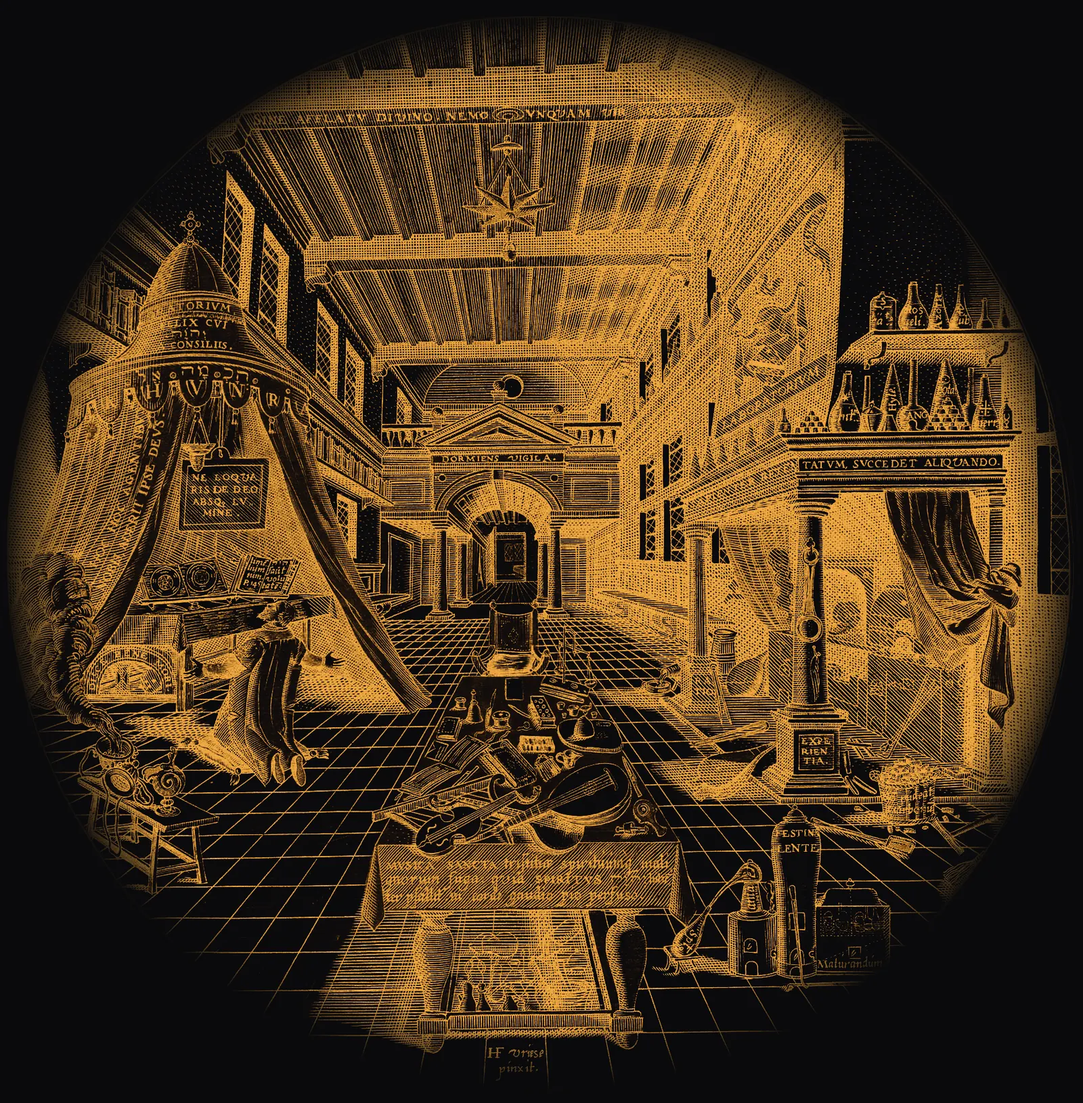
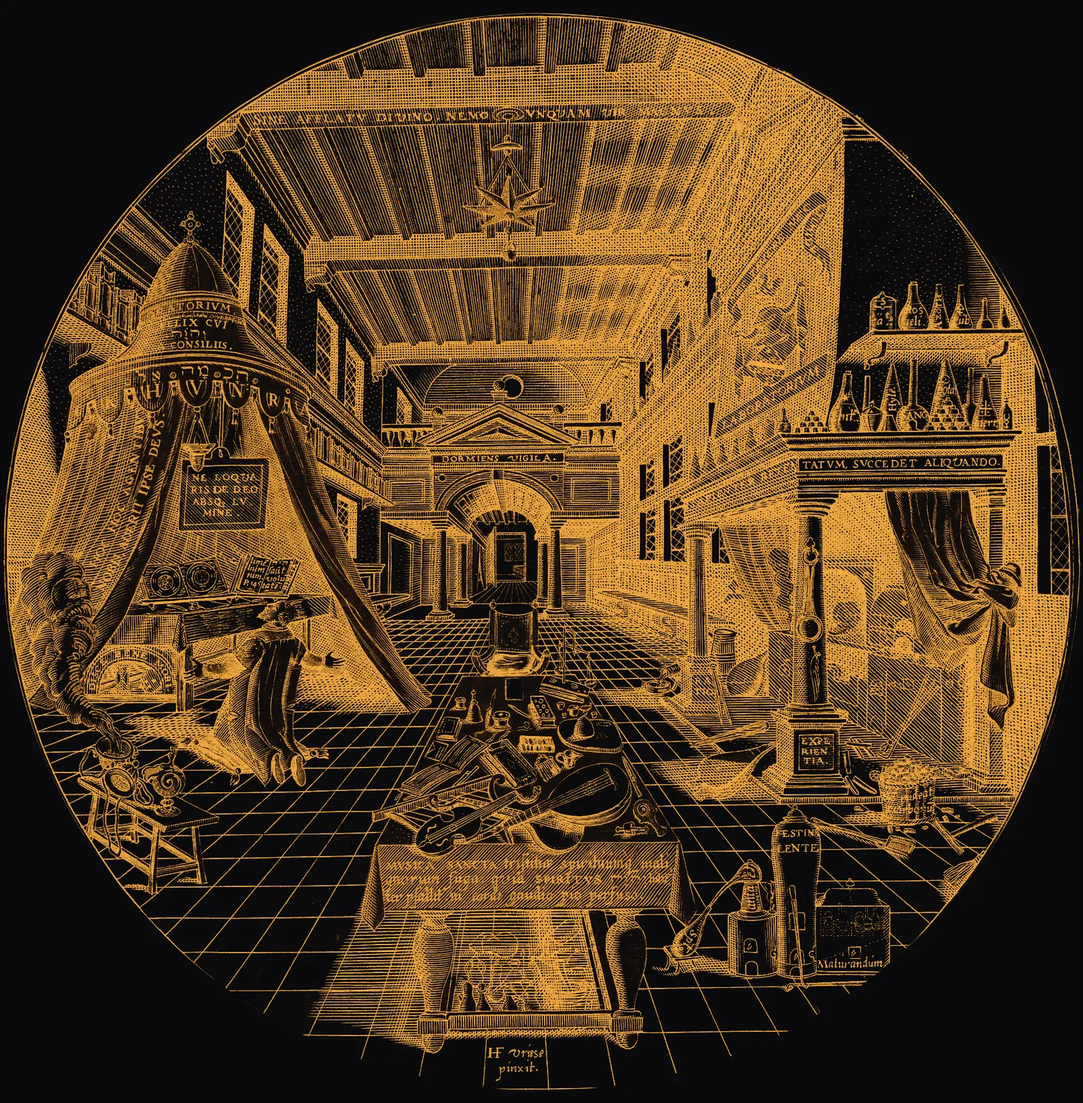
feat(docs-site): full-bleed constellation, readable display type, circular plate
Three changes from looking at it on a real screen.

**The constellation covers the field.** It used to be seeded on an annulus around
the medallion and fenced out of the type column entirely, which made it an
ornament attached to the engraving rather than a background. Nodes are now laid
out on a jittered grid across the whole hero — jittered rather than random,
because random scatter clumps and leaves bald patches, which is the one thing
"covers the background" must not look like. Settling runs briefly so linked
pages pull together without collapsing the even coverage back into clusters.
60 nodes, up from 34.

Where it runs under the copy it is held back by a CSS mask rather than excluded,
so the field reads as continuous while the headline still wins.

**It moves, and it reacts by moving.** Each node wanders continuously on two
frequencies with its own phase and amplitude, so nothing pulses in lockstep.
The cursor now pushes nodes out of the way — squared falloff over a 165px
radius, damped spring back to home — instead of only brightening them. Heat is
still there, but it is the secondary cue now.

**The plate is a circle.** Its corners carried the page colour baked in, which
is invisible against the page but fully opaque to anything behind it — and the
constellation is behind it, so the square was punching a square hole in the
graph. Cropped with border-radius. The asset also loses its 12% edge dissolve,
[…]

diff --git a/docs-site/src/styles/tokens.css b/docs-site/src/styles/tokens.css
@@ -68,6 +68,12 @@
 	 * engraving's burin line. It is fragile below ~1.5rem — do not
 	 * use it for body, labels, or anything under 24px. */
 	--cru-font-display: 'Bodoni Moda', 'Didot', 'Bodoni MT', Georgia, serif;
+
+	/* Bodoni Moda is optical-size aware, and its display cuts (opsz 72+)
+	 * thin the hairlines to near-invisible at hero sizes — striking in a
+	 * specimen, hard to read as a sentence. Pinning opsz to a text cut
+	 * keeps the Didone character with strokes that survive. */
+	--cru-display-opsz: 'opsz' 18;
 	--cru-font-body: 'IBM Plex Sans', system-ui, -apple-system, sans-serif;
 	--cru-font-mono: 'IBM Plex Mono', ui-monospace, 'SF Mono', monospace;
 

diff --git a/docs-site/src/styles/custom.css b/docs-site/src/styles/custom.css
@@ -101,6 +101,10 @@
 .sl-markdown-content h2 {
 	font-family: var(--cru-font-display);
 	font-weight: 600;
+	/* Pinned to a text optical size — the display cuts thin the hairlines to
+	   near-invisible at heading sizes. See tokens.css. */
+	font-optical-sizing: none;
+	font-variation-settings: var(--cru-display-opsz);
 	letter-spacing: var(--cru-track-display);
 	line-height: 1.14;
 }

diff --git a/docs-site/public/art/ATTRIBUTION.md b/docs-site/public/art/ATTRIBUTION.md
@@ -32,13 +32,19 @@ Generated from the Commons scan. The steps, so they can be reproduced or retuned
    a dark field. Inversion is what makes the plate usable here at all.
 3. Apply gamma 1.45, then map to an amber ramp from `#5C2A0D` (faint ink) to
    `#FFAA33` (dense ink), with the densest 28% pushed toward white-gold.
-4. Mask to the tondo, dissolving over the outer 12% of the radius so the
-   medallion resolves into the page rather than terminating on a hard edge.
+4. Mask to the tondo with a hard edge — about 1.5px of antialiasing and no
+   falloff. An earlier version dissolved over the outer 12% of the radius,
+   which read as a vignette rather than a struck medallion and ate the outer
+   ring of the plate along with it.
 5. Composite onto `#0A0A0C` — the page background — and export opaque.
 
-Opaque, not alpha: WebP encodes alpha losslessly, which tripled the file for a
-transparency that the step-4 falloff already makes invisible. 900px is 256 KB;
-the 1600px retina variant is 746 KB.
+Opaque, not alpha: WebP encodes alpha losslessly, which tripled the file size.
+The disc's corners are the page colour, so on the page they are invisible
+anyway. 900px is 281 KB; the 1600px retina variant is 816 KB.
+
+One consequence of baking the background in: anything drawn *behind* the image
+is occluded by those corners. A radial glow underneath the medallion showed up
+as a visible square, which is why there isn't one.
 
 Steps 3 and 5 hardcode the palette. If the page background or the amber changes,
 these files must be regenerated — they will not adapt.
